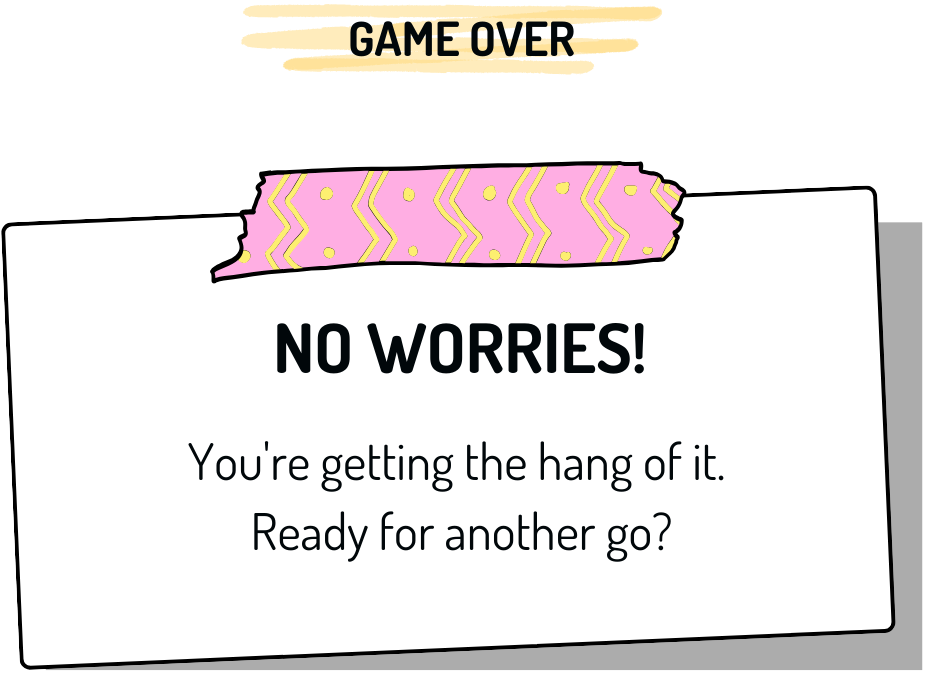
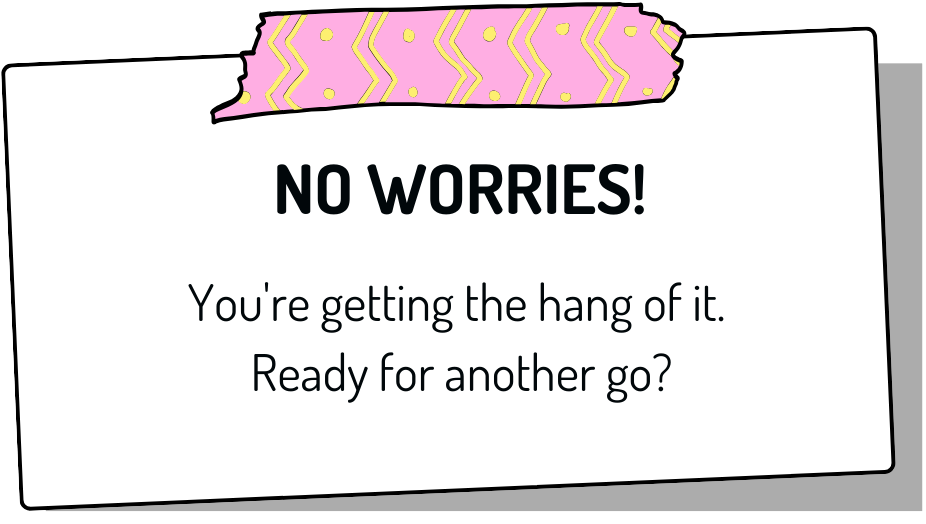
added styling to the end screens

Changed region(s): [[0.0, 0.0, 0.9978, 1.0], [0.1814, 0.458, 0.7862, 0.8244]]

diff --git a/index.html b/index.html
@@ -48,14 +48,16 @@
       <img id="end-top-left" src="/img/end-top-left.png" alt="end-top-left">
 
       <div id="win-game-end">
-        <img src="/img/win-end-screen.png" alt="win-end-screen">
-        <p>You've matched all cards in <br /><span id="timeTotal">""</span>seconds!</p>
+        <img id="win-scratch" src="/img/scratch.png" alt="scratch">
+        <img class="end-screen" src="/img/win-end-screen.png" alt="win-end-screen">
+        <p>You've matched all cards in <span id="timeTotal">""</span> seconds!</p>
         <button id="restart-button"><img src="/img/restart-button-img.png" alt="restart-button-img"></button>
       </div>
 
       <div id="lose-game-end">
-        <img src="/img/lose-end-screen.png" alt="lose-end-screen">
-        <p>You've matched <br /><span id="scoreTotal">""</span>cards</p>
+        <img id="lose-scratch" src="/img/scratch.png" alt="scratch">
+        <img class="end-screen" src="/img/lose-end-screen.png" alt="lose-end-screen">
+        <p>You've matched <span id="scoreTotal">""</span> cards</p>
         <button id="try-again-button"><img src="/img/restart-button-img.png" alt="try-again-button-img"></button>
     </div>
   </div>

diff --git a/styles/styles.css b/styles/styles.css
@@ -199,13 +199,12 @@ body {
 #game-end {
   display: none;
 }
-
-#win-game-end {
-  display: none;
-}
-
+#win-game-end,
 #lose-game-end {
   display: none;
+  justify-content: space-between;
+  align-items: center;
+  flex-direction: column;
 }
 
 #end-bottom-left {
@@ -254,18 +253,36 @@ body {
   width: 50%;
   height: auto;
 }
-
-#win-game-end,
-#lose-game-end {
-  display: none;
-  justify-content: space-between;
-  align-items: center;
-  flex-direction: column;
+#win-scratch {
+  width: 25%;
+  padding: 3% 0 0 0%;
+  height: auto;
+  position: fixed;
+  top: 0;
+  opacity: 0.8;
+}
+#lose-scratch {
+  width: 20%;
+  padding: 3.5% 0 0 0;
+  height: auto;
+  position: fixed;
+  top: 0;
+  opacity: 0.8;
 }
 
-#win-game-end > img,
-#lose-game-end > img {
+#win-game-end p,
+#lose-game-end p {
+  font-family: 'dosisregular';
+  font-size: 1.5em;
+  font-weight: bold;
+  padding: 2% 0 0 0;
+  position: fixed;
+  top: 0
+}
+.end-screen {
   width: 45%;
   height: auto;
-  padding: 40px 0 30px 0;
+  display: block;
+  margin: auto;
+  padding: 10% 0 2% 0;
 }

diff --git a/src/language.js b/src/language.js
@@ -3,7 +3,7 @@ class LanguageGame {
     this.cards = cards;
     this.pickedCards = [];
     this.cardPairs = [];
-    this.time = 60;
+    this.time = 2;
     this.score = 0;
     this.startScreen = document.getElementById('game-intro');
     this.loadingScreen = document.getElementById('game-loading');
@@ -140,6 +140,7 @@ class LanguageGame {
     const elapsedTime = Math.floor((this.endTime - this.startTime) / 1000);
     const totalTime = document.getElementById('timeTotal');
     totalTime.innerText = elapsedTime;
+    this.loseScreen.style.display = 'none';
 
   }
   loseGame() {
@@ -148,5 +149,6 @@ class LanguageGame {
     this.loseScreen.style.display = 'flex';
     const totalScore = document.getElementById('scoreTotal');
     totalScore.innerText = this.realTimeScore.innerText;
+    this.winScreen.style.display = 'none';
   }
 }

diff --git a/src/index.js b/src/index.js
@@ -54,7 +54,6 @@ window.onload = function () {
 };
 
 function handleClick(card) {
-  console.log('clicked');
 
   languageGame.selectCard(card);
 
